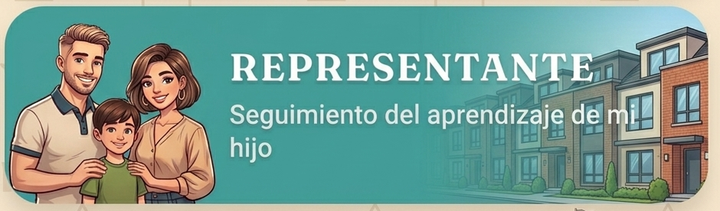
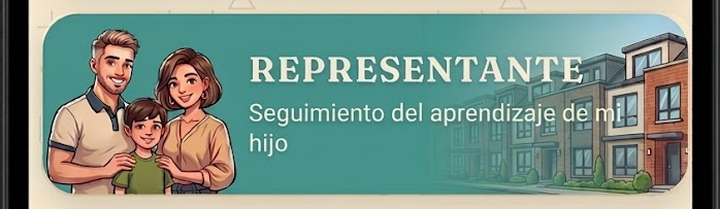
Add files via upload

diff --git a/frontend/index.html b/frontend/index.html
@@ -187,8 +187,8 @@
     .user-name{font-size:13px;}
     .user-role{font-size:11px;}
     .tabbar button{font-size:12px;}
-    .authtitle{font-size:25px;}
-    .authsub{font-size:14.5px;}
+    .authtitle{font-family:'Fraunces',serif;font-size:28px;font-weight:600;color:#1A2744;text-align:center;letter-spacing:-0.3px;margin:6px 0 8px;}
+    .authsub{font-size:13.5px;line-height:1.45;color:#5C5866;text-align:center;margin:0 12px 18px;font-weight:500;}
     .helptext{font-size:12.5px;}
     .rolecard{min-height:100px;padding:14px 14px;}
     .rolecard .illus{width:92px;min-width:92px;height:78px;}
@@ -294,7 +294,7 @@
     width:100% !important;
     max-width:100% !important;
     padding:0 !important;
-    margin:0 0 10px 0 !important;
+    margin:0 0 12px 0 !important;
     border:none !important;
     outline:none !important;
     background:transparent !important;
@@ -304,7 +304,9 @@
     box-shadow:none !important;
     line-height:0 !important;
     -webkit-tap-highlight-color:transparent;
+    transition:transform 0.15s ease, filter 0.15s ease;
   }
+  .rolecard-img:active{transform:scale(0.98);filter:brightness(0.97);}
   .rolecard-img:active{transform:scale(0.98);opacity:0.95;}
   .rolecard-img + .rolecard-img{margin-top:12px;}
   .rolecard-img.rolecard-autoridades{margin-top:14px;}
@@ -320,9 +322,7 @@
     image-rendering:auto;
     -webkit-backface-visibility:hidden;
   }
-  .authbody{
-    padding:20px 14px 24px !important;
-  }
+  .authbody{padding:18px 16px 28px !important;}
 
   .curso-fila{background:var(--paper);border:1px solid var(--line);border-radius:10px;padding:10px 12px;margin-bottom:10px;}
   .icon-btn{background:none;border:none;cursor:pointer;font-size:13px;padding:2px 6px;border-radius:6px;color:var(--muted);}
